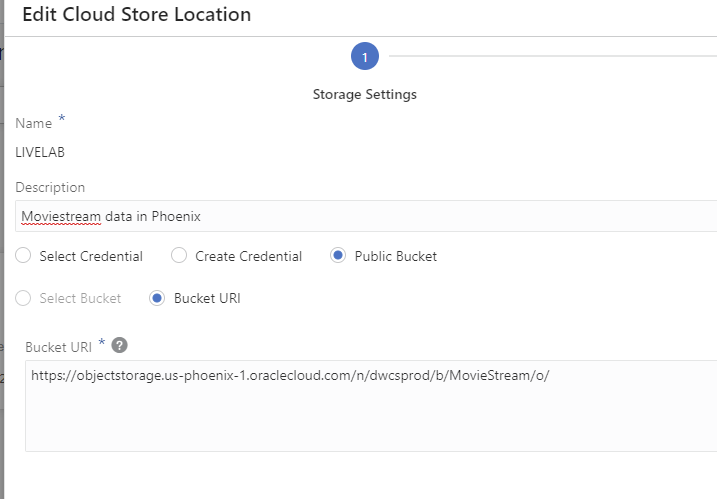
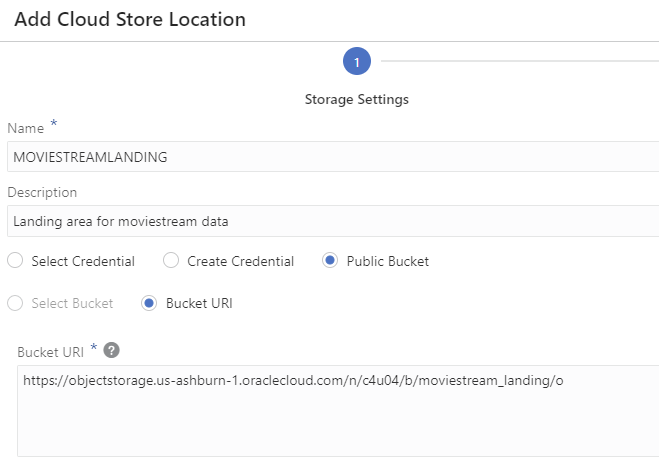
load lab updates

Changed region(s): [[0.0, 0.0, 1.0, 1.0], [0.4552, 0.5021, 0.6677, 0.5612], [0.2124, 0.5907, 0.3642, 0.6498]]

diff --git a/shared/workshops/adb-datastudio/data-load/4-loadcloud.md b/shared/workshops/adb-datastudio/data-load/4-loadcloud.md
@@ -15,29 +15,57 @@ Note that in this example, we will be using files on Oracle Cloud Infrastructure
   ![The Data Studio cards on the Database Actions home page, with the Data Load card selected](images/go-to-dataload.png)
 2. On the **Data Load** main page, click the **Cloud Locations** card so you can define a new connection to your cloud storage system.
   ![The Cloud Locations card in Data Studio](images/cloudlocations.png)
-3. Click the **Add Cloud Storage** button on the upper right and define a Cloud Storage location using the following URI:
+3. Click the **Add Cloud Storage** button on the upper right and define a Cloud Storage location. Set the Name to **MOVIESTREAMLANDING**, select the **Public Bucket** radio option, and copy and paste the following Bucket URI:
 
-    https://objectstorage.us-ashburn-1.oraclecloud.com/n/c4u04/b/moviestream_landing/o
+ ```
+    $ <copy>https://objectstorage.us-ashburn-1.oraclecloud.com/n/c4u04/b/moviestream_landing/o</copy>
+ ```
 
-    ![ALT text is not available for this image](images/cloudstorage1.png)
+  ![Cloud Location configuration showing complete URI](images/cloudstorage1.png)
 
   Your completed form should look like the one above. When you have completed these details, click **Next**.
 
-  4. The **Cloud Data** page allows you to verify your cloud storage connection by showing a preview of the files contained in it. This is useful to ensure the location is set up correctly.
+ 4. The **Cloud Data** page allows you to verify your cloud storage connection by showing a preview of the available objects contained in it. This is useful to ensure the location is set up correctly. In this case, this should look as below:
+
+   ![Contents of moviestream landing area](images/cloudstorage2.png)
+
+ 5. Click the **Create** button to complete the registration of this cloud location.
 
 ### Load Data Files from A Cloud Storage Location
 
-4. Navigate back to the main Data Load page again using the breadcrumb link. Click the two cards for  **Load Data**  from  **Cloud Storage **and then click the blue **Next** button. 
-  ![ALT text is not available for this image](images/2879071251.png)
-21. Now you see a file browser-like view of your Object Store. Locate the file **Movie\_Sales\_2020.csv** in the left part of the screen. Click and drag this file onto the canvas on the right. 
-  ![ALT text is not available for this image](images/2879071252.png)
-22. As before, you can edit the properties of your new data load job by clicking the **pencil** button on the right-hand side of the card. 
-  ![ALT text is not available for this image](images/sales-data.png)
-23. You can use this page to quickly review the properties sheet and make any changes to column names or data types. As soon as you are satisfied with the format, you can close the form and then click the **green arrow** button to start your data load job. 
-  ![ALT text is not available for this image](images/load-movie-sales.png)
+ 6. Navigate back to the main Data Load page again using the breadcrumb link. Click the two cards for  **Load Data**  from  **Cloud Store** and then click the blue **Next** button. 
+  ![The Data Load page with Load Data and Cloud Store selected](images/loadcloud1.png)
 
-### Inspect Data In Table MOVIE\_SALES\_2020
+ 7. Now you see a file browser-like view of your Object Store. In this case we want to load the **activity**, **customer_extension**, **customer_segment** and **pizza_location** files. To do this, we can either select and drag the subfolders containing each of these files, or drag the files themselves, to the right hand side of the screen. 
+  ![The Data Load page with a card created for each file we want to load](images/loadcloud2.png)
 
-24. Navigate to the **Data Load** main page and click the **Explore** card. You'll now see table MOVIE\_SALES\_2020 has been loaded into your Autonomous Data Warehouse.
-25. Click this table and then click **Source Statistics** on the panel to the left of the screen. Statistics help you quickly understand the structure and content of the table. In this case, this data presents a nice simple way to characterize the data you've just loaded. 
-  ![ALT text is not available for this image](images/explore-sales.png)
+**Note**: The selection of a folder allows the loading of multiple files that are in the same structure into a single table. If you drag and drop a folder, rather than a file, a prompt appears to confirm that you want to load all files in this folder into a single table. In this case, all our folders contain a single file, so you can just say Yes to the prompt. If you have a folder containing files in different structures and you want to load many of them, you should drag across each file separately so that separate tables can be created, each with the correct columns and data.
+
+8. As before, you can edit the properties of each of the data loading tasks by opening the menu on the right-hand side of each card and selecting **Settings**. Do this for the **activity** load task: 
+  ![Accessing the settings for the data load task for activities](images/activity-settings.png)
+
+9. On this page, we can check the properties of the load task, and make any changes to column names or data types. 
+
+  ![Properties of the data load task for activities](images/activity-columns.png)
+
+Note that the Data Type for three of the columns (cust_id, genre_id and movie_id) has been detected as NUMBER. The remaining columns have been detected as VARCHAR2 columns, with the Length/Precision set to **Auto**. The **Auto** setting will analyze the full data set and automatically create columns that are comfortably long enough to store the longest found values for each column. With larger files, it may be more performance-efficient to specify the Length/Precision yourself so that this analysis is avoided.
+
+In this case there is no need to make any changes. You can close the form and then click the **green arrow** button to start your data load job. 
+
+  ![The toolbar with the Start button selected](images/cloudload-start.png)
+
+The job should take less than a minute to complete. You can see the number of rows loaded into each table.
+
+  ![All cloud data load tasks completed, with row counts](images/cloudload-complete.png)
+
+### Inspect the newly loaded tables
+
+10. Click on **Catalog** from the Data Studio navigation menu on the left hand side. 
+
+  ![The Data Studio menu with Catalog selected](images/launch-catalog.png)
+
+Under **Saved Searches** on the right hand side, click on **Tables, views and analytic views owned by QTEAM** to see a list of the tables you have created in this and previous labs.
+
+11. Click the **ACTIVITY** table and then click **Statistics** on the panel to the left of the screen. Statistics help you quickly understand the structure and content of the table and to verify that data has been loaded correctly.
+
+  ![ALT text is not available for this image](images/explore-activity.png)
